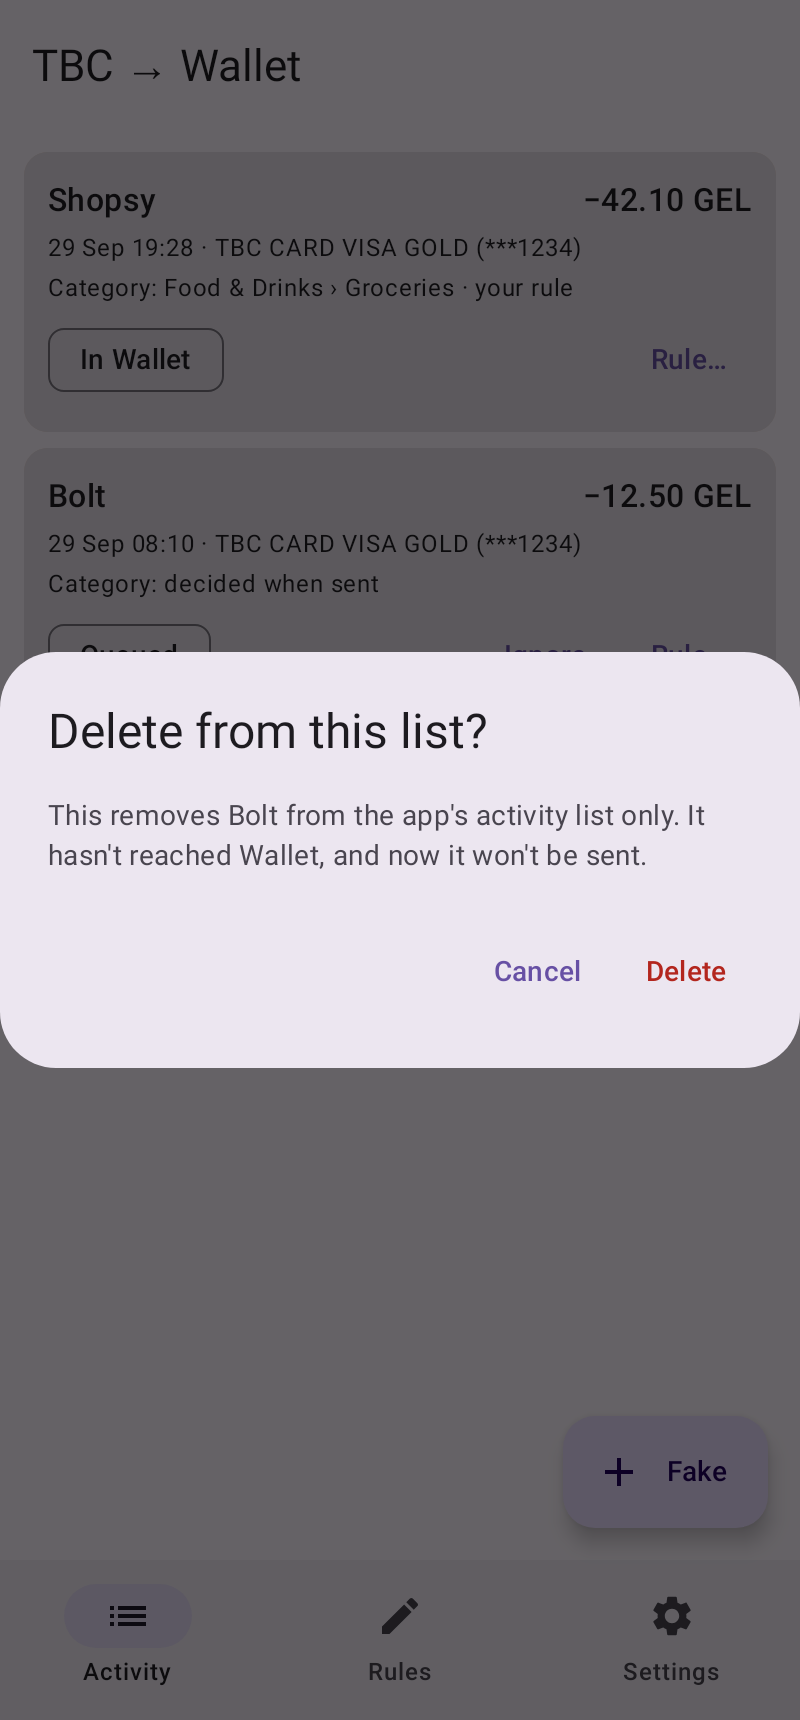
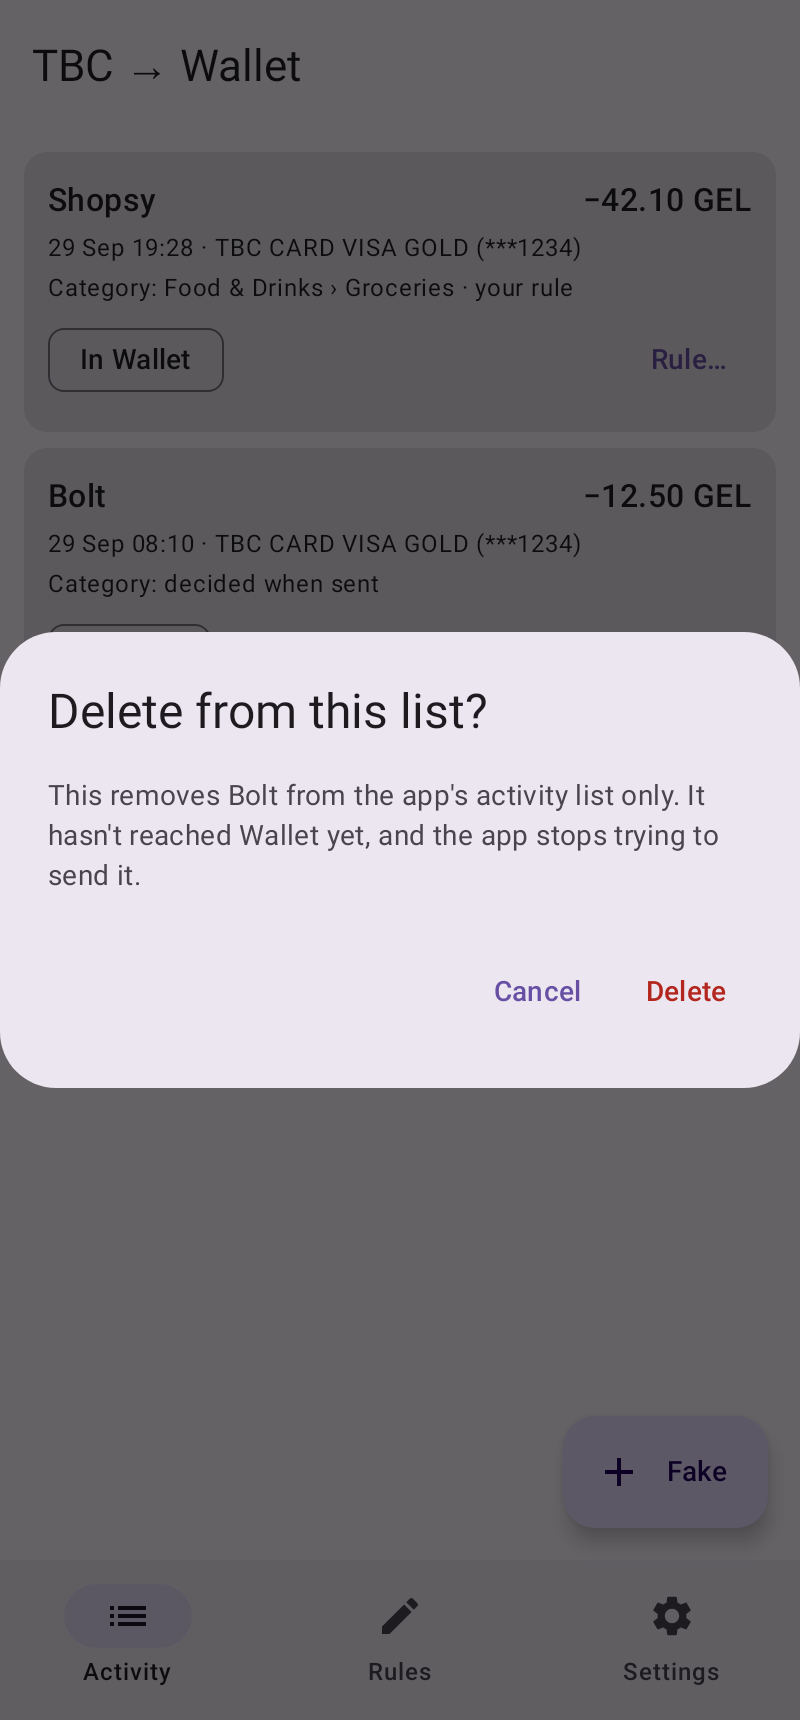
Don't promise a queued record will never be sent
A send already in flight can't be called back, so the dialog now says
the app stops trying to send it.

Claude-Session: https://claude.ai/code/session_01Y8VZK5u5dRJ7Tjw1SL9SKk

diff --git a/app/src/main/java/su/iho/tbc2wallet/MainActivity.kt b/app/src/main/java/su/iho/tbc2wallet/MainActivity.kt
@@ -249,7 +249,7 @@ private fun DeleteTransactionDialog(tx: TransactionEntity, onConfirm: () -> Unit
     val what = tx.counterParty ?: if (tx.status == TxStatus.UNPARSED) "this unreadable notification" else "this transaction"
     val consequence = when {
         tx.walletRecordId != null -> "The record already in Wallet stays there; delete it in Wallet if you want it gone too."
-        tx.status in setOf(TxStatus.PENDING, TxStatus.NEEDS_ACCOUNT, TxStatus.FAILED) -> "It hasn't reached Wallet, and now it won't be sent."
+        tx.status in setOf(TxStatus.PENDING, TxStatus.NEEDS_ACCOUNT, TxStatus.FAILED) -> "It hasn't reached Wallet yet, and the app stops trying to send it."
         else -> "Nothing changes in Wallet."
     }
     AlertDialog(
